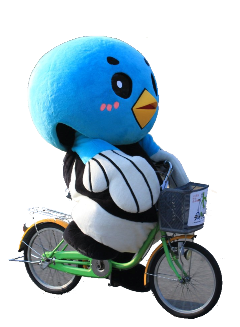
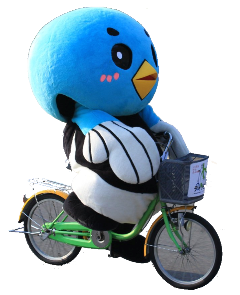
prof画像軽量化

diff --git a/index.html b/index.html
@@ -4,7 +4,7 @@
 <head>
   <meta charset="UTF-8">
   <title>Welcome!</title>
-    <meta name="viewport" content="width=device-width, initial-scale=1">
+  <meta name="viewport" content="width=device-width, initial-scale=1">
   <script src="js/jquery-2.1.4.js"></script>
   <link rel="stylesheet" href="css/bootstrap.min.css">
   <script src="js/bootstrap.min.js"></script>
@@ -119,7 +119,7 @@
   <div class="grid">
     <div class="grid-item">
       <figure>
-        <img src="images/prof.png" alt="profile">
+        <img src="images/prof.jpg" alt="profile">
         <figcaption>
           <h3>トゥムルック<small>（Tumulucc）</small></h3>
           <p>フランス人の女の子が付けた名。
@@ -145,8 +145,9 @@
         <img src="images/bentou.jpg" alt="義祭弁当">
         <figcaption>
           <h3>義祭弁当</h3>
-          <p>佐賀が誇る賢人にちなんだ弁当<br>
-          会議の昼食で頂きました。</p>
+          <p>佐賀が誇る賢人にちなんだ弁当
+            <br> 会議の昼食で頂きました。
+          </p>
         </figcaption>
       </figure>
     </div>
